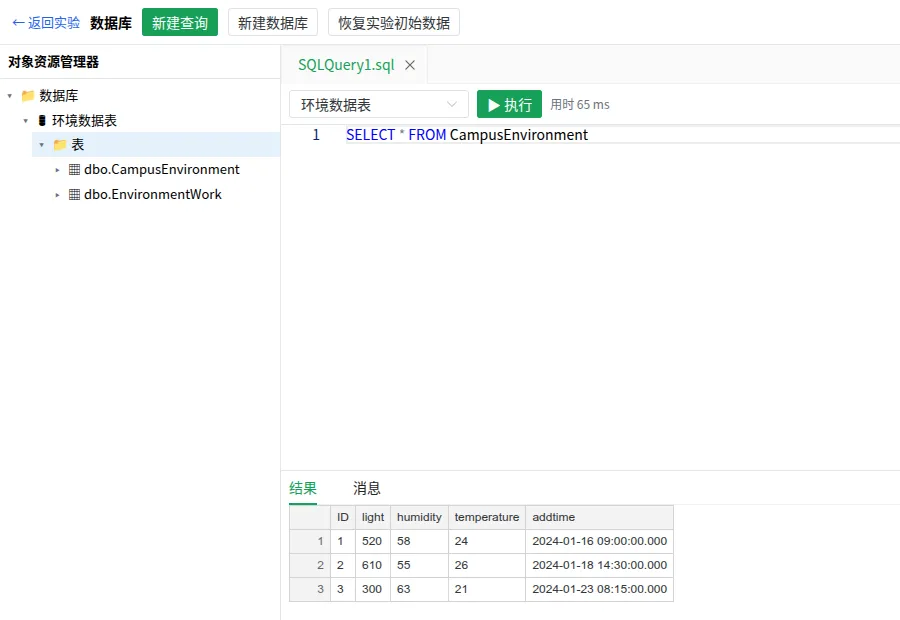
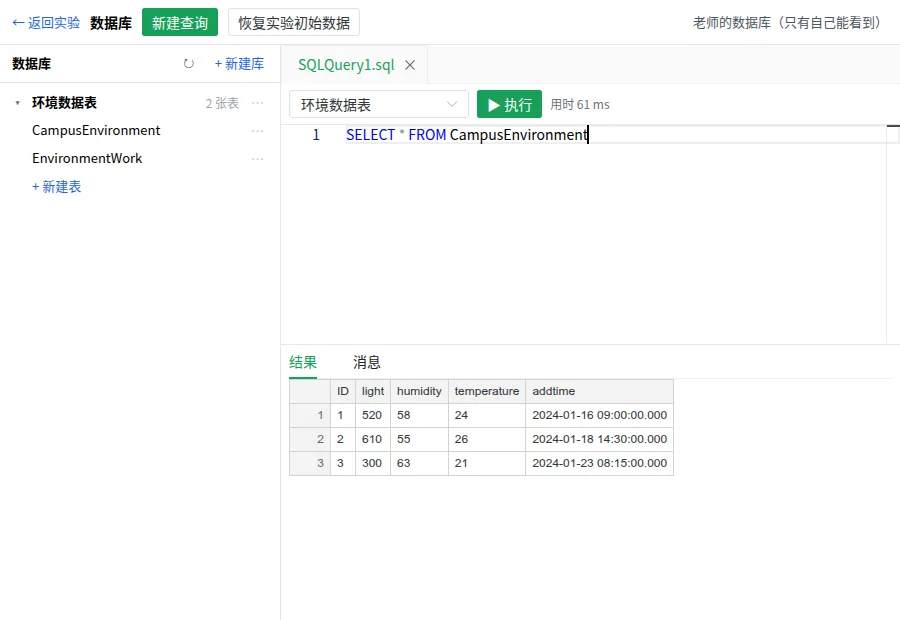
数据库页面的对象资源管理器简化成“库 → 表”两层：去掉“数据库”“表”“列”三层文件夹和 emoji；头部“+ 新建库”和刷新，每个库下面“+ 新建表”；点表名打开编辑前 200 行（已经开着就切过去），库和表右边的 ⋯ 和右键是同一个菜单（新建表 / 新建查询 / 删除数据库；编辑数据 / 查询前 1000 行 / 设计表结构 / 删除表），⋯ 打开的菜单出在按钮下面；鼠标停在表名上显示列。顶部去掉重复的“新建数据库”按钮；使用说明、数据库截图和设计方案同步

diff --git a/web/src/database/ObjectExplorer.vue b/web/src/database/ObjectExplorer.vue
@@ -1,5 +1,5 @@
 <script setup lang="ts">
-// 对象资源管理器（仿 SSMS）：数据库 → 库 → 表 → 列。右键菜单里的操作交给页面处理。
+// 对象资源管理器：只有“库 → 表”两层。点表名打开编辑数据，其他操作在 ⋯ 里（右键也是同一个菜单，照书上右键操作也行）。
 import { NDropdown, type DropdownOption } from 'naive-ui'
 import { nextTick, reactive, ref } from 'vue'
 import type { ExplorerDatabase, ExplorerTable } from './sql'
@@ -18,22 +18,25 @@ export type ExplorerAction =
 defineProps<{ databases: ExplorerDatabase[] }>()
 const emit = defineEmits<{ action: [action: ExplorerAction] }>()
 
-/** 展开的节点：root、db:库名、tables:库名、table:库名/表名、columns:库名/表名 */
-const expanded = reactive(new Set<string>(['root']))
-const toggle = (key: string) => (expanded.has(key) ? expanded.delete(key) : expanded.add(key))
+/** 收起的库（默认都展开，学生的库不多） */
+const collapsed = reactive(new Set<string>())
+const toggle = (name: string) => (collapsed.has(name) ? collapsed.delete(name) : collapsed.add(name))
 
-// ---------- 右键菜单 ----------
+// ---------- 菜单（⋯ 按钮和右键共用） ----------
 const menu = ref<{ x: number; y: number; options: DropdownOption[]; actions: Map<string, ExplorerAction> } | null>(null)
 
-function openMenu(event: MouseEvent, items: [string, ExplorerAction][]) {
+function openMenu(event: MouseEvent, items: [string, ExplorerAction | null][]) {
   event.preventDefault()
+  event.stopPropagation()
+  // 右键：菜单出在鼠标处；点 ⋯（也可能是键盘按的，没有鼠标坐标）：出在按钮下面
+  const anchor = event.type === 'contextmenu' ? null : (event.currentTarget as HTMLElement).getBoundingClientRect()
   menu.value = null
   void nextTick(() => {
     menu.value = {
-      x: event.clientX,
-      y: event.clientY,
-      options: items.map(([label], i) => (label === '-' ? { type: 'divider', key: `d${i}` } : { label, key: String(i) })),
-      actions: new Map(items.map(([, action], i) => [String(i), action])),
+      x: anchor ? anchor.left : event.clientX,
+      y: anchor ? anchor.bottom : event.clientY,
+      options: items.map(([label, action], i) => (action ? { label, key: String(i) } : { type: 'divider', key: `d${i}` })),
+      actions: new Map(items.flatMap(([, action], i) => (action ? [[String(i), action] as const] : []))),
     }
   })
 }
@@ -44,107 +47,68 @@ function choose(key: string) {
   if (action) emit('action', action)
 }
 
-const REFRESH: ExplorerAction = { kind: 'refresh' }
-
-function rootMenu(event: MouseEvent) {
-  openMenu(event, [
-    ['新建数据库…', { kind: 'newDatabase' }],
-    ['-', REFRESH],
-    ['刷新', REFRESH],
-  ])
-}
-
 function databaseMenu(event: MouseEvent, database: string) {
   openMenu(event, [
+    ['新建表', { kind: 'newTable', database }],
     ['新建查询', { kind: 'newQuery', database }],
-    ['新建表…', { kind: 'newTable', database }],
-    ['-', REFRESH],
-    ['删除', { kind: 'dropDatabase', database }],
-    ['刷新', REFRESH],
-  ])
-}
-
-function tablesMenu(event: MouseEvent, database: string) {
-  openMenu(event, [
-    ['新建表…', { kind: 'newTable', database }],
-    ['-', REFRESH],
-    ['刷新', REFRESH],
+    ['-', null],
+    ['删除数据库', { kind: 'dropDatabase', database }],
   ])
 }
 
 function tableMenu(event: MouseEvent, database: string, table: ExplorerTable) {
   openMenu(event, [
-    ['新建表…', { kind: 'newTable', database }],
-    ['设计', { kind: 'design', database, table }],
-    ['选择前 1000 行', { kind: 'selectRows', database, table }],
-    ['编辑前 200 行', { kind: 'editRows', database, table }],
-    ['-', REFRESH],
-    ['删除', { kind: 'dropTable', database, table }],
-    ['刷新', REFRESH],
+    ['编辑数据（前 200 行）', { kind: 'editRows', database, table }],
+    ['查询数据（前 1000 行）', { kind: 'selectRows', database, table }],
+    ['设计表结构', { kind: 'design', database, table }],
+    ['-', null],
+    ['删除表', { kind: 'dropTable', database, table }],
   ])
 }
 
-function columnText(column: ExplorerTable['columns'][number]) {
-  const flags = [column.primaryKey ? 'PK' : '', column.type, column.nullable ? 'null' : 'not null'].filter(Boolean)
-  return `${column.name} (${flags.join(', ')})`
+/** 鼠标停在表名上显示的列：每列一行“列名  类型  主键 / 可空” */
+function columnsTip(table: ExplorerTable) {
+  const lines = table.columns.map((c) => [c.name, c.type, c.primaryKey ? '主键' : '', c.nullable ? '可空' : ''].filter(Boolean).join('  '))
+  return `点一下编辑数据\n\n${lines.join('\n')}`
 }
 </script>
 
 <template>
   <div class="explorer">
-    <div class="title">对象资源管理器</div>
-    <ul class="tree">
-      <li>
-        <div class="node" @click="toggle('root')" @contextmenu="rootMenu">
-          <span class="arrow">{{ expanded.has('root') ? '▾' : '▸' }}</span
-          >📁 数据库
+    <div class="head">
+      <span class="title">数据库</span>
+      <button class="head-btn" title="刷新" @click="emit('action', { kind: 'refresh' })">↻</button>
+      <button class="head-btn add" @click="emit('action', { kind: 'newDatabase' })">+ 新建库</button>
+    </div>
+
+    <div class="tree">
+      <p v-if="databases.length === 0" class="empty">还没有数据库。点上面的“+ 新建库”，或者在页面顶部“恢复实验初始数据”。</p>
+
+      <div v-for="db in databases" :key="db.name" class="db">
+        <div class="row db-row" @click="toggle(db.name)" @contextmenu="databaseMenu($event, db.name)">
+          <span class="arrow">{{ collapsed.has(db.name) ? '▸' : '▾' }}</span>
+          <span class="name">{{ db.name }}</span>
+          <span class="count">{{ db.tables.length }} 张表</span>
+          <button class="more" title="更多操作" @click="databaseMenu($event, db.name)">⋯</button>
         </div>
-        <ul v-if="expanded.has('root')">
-          <li v-if="databases.length === 0" class="empty">（还没有数据库：右键"数据库"新建，或在上方恢复实验初始数据）</li>
-          <li v-for="db in databases" :key="db.name">
-            <div class="node" @click="toggle(`db:${db.name}`)" @contextmenu="databaseMenu($event, db.name)">
-              <span class="arrow">{{ expanded.has(`db:${db.name}`) ? '▾' : '▸' }}</span
-              >🛢 {{ db.name }}
-            </div>
-            <ul v-if="expanded.has(`db:${db.name}`)">
-              <li>
-                <div class="node" @click="toggle(`tables:${db.name}`)" @contextmenu="tablesMenu($event, db.name)">
-                  <span class="arrow">{{ expanded.has(`tables:${db.name}`) ? '▾' : '▸' }}</span
-                  >📁 表
-                </div>
-                <ul v-if="expanded.has(`tables:${db.name}`)">
-                  <li v-if="db.tables.length === 0" class="empty">（没有表）</li>
-                  <li v-for="table in db.tables" :key="table.name">
-                    <div
-                      class="node"
-                      title="右键：编辑前 200 行、设计、删除"
-                      @click="toggle(`table:${db.name}/${table.name}`)"
-                      @contextmenu="tableMenu($event, db.name, table)"
-                    >
-                      <span class="arrow">{{ expanded.has(`table:${db.name}/${table.name}`) ? '▾' : '▸' }}</span
-                      >▦ dbo.{{ table.name }}
-                    </div>
-                    <ul v-if="expanded.has(`table:${db.name}/${table.name}`)">
-                      <li>
-                        <div class="node" @click="toggle(`columns:${db.name}/${table.name}`)">
-                          <span class="arrow">{{ expanded.has(`columns:${db.name}/${table.name}`) ? '▾' : '▸' }}</span
-                          >📁 列
-                        </div>
-                        <ul v-if="expanded.has(`columns:${db.name}/${table.name}`)">
-                          <li v-for="column in table.columns" :key="column.name" class="node leaf">
-                            {{ column.primaryKey ? '🔑' : '▫' }} {{ columnText(column) }}
-                          </li>
-                        </ul>
-                      </li>
-                    </ul>
-                  </li>
-                </ul>
-              </li>
-            </ul>
-          </li>
-        </ul>
-      </li>
-    </ul>
+
+        <template v-if="!collapsed.has(db.name)">
+          <div
+            v-for="table in db.tables"
+            :key="table.name"
+            class="row table-row"
+            :title="columnsTip(table)"
+            @click="emit('action', { kind: 'editRows', database: db.name, table })"
+            @contextmenu="tableMenu($event, db.name, table)"
+          >
+            <span class="name">{{ table.name }}</span>
+            <button class="more" title="更多操作" @click="tableMenu($event, db.name, table)">⋯</button>
+          </div>
+          <div class="row new-table" @click="emit('action', { kind: 'newTable', database: db.name })">+ 新建表</div>
+        </template>
+      </div>
+    </div>
+
     <NDropdown
       v-if="menu"
       show
@@ -169,54 +133,116 @@ function columnText(column: ExplorerTable['columns'][number]) {
   background: #fff;
 }
 
-.title {
-  padding: 6px 8px;
-  font-weight: 600;
+.head {
+  display: flex;
+  align-items: center;
+  gap: 4px;
+  padding: 6px 8px 6px 12px;
   border-bottom: 1px solid #e5e7eb;
 }
 
-.tree,
-.tree ul {
-  list-style: none;
-  margin: 0;
-  padding: 0;
+.title {
+  flex: 1;
+  font-weight: 600;
+}
+
+.head-btn {
+  padding: 2px 8px;
+  border: 0;
+  border-radius: 4px;
+  background: transparent;
+  color: #4b5563;
+  font: inherit;
+  cursor: pointer;
+}
+
+.head-btn:hover {
+  background: #f3f4f6;
+}
+
+.head-btn.add {
+  color: #2563eb;
 }
 
 .tree {
   flex: 1;
   overflow: auto;
-  padding: 4px 0;
+  padding: 6px;
 }
 
-.tree ul {
-  padding-left: 16px;
+.db + .db {
+  margin-top: 4px;
 }
 
-.node {
-  padding: 2px 6px;
-  white-space: nowrap;
-  cursor: default;
+.row {
+  display: flex;
+  align-items: center;
+  gap: 6px;
+  min-height: 28px;
+  padding: 0 4px 0 8px;
+  border-radius: 4px;
+  cursor: pointer;
   user-select: none;
 }
 
-.node:hover {
-  background: #e5f1fb;
-}
-
-.leaf {
-  padding-left: 20px;
-  color: #374151;
+.row:hover {
+  background: #eff6ff;
 }
 
 .arrow {
-  display: inline-block;
-  width: 14px;
+  width: 12px;
   color: #6b7280;
 }
 
-.empty {
-  padding: 2px 6px 2px 22px;
+.name {
+  flex: 1;
+  min-width: 0;
+  white-space: nowrap;
+  overflow: hidden;
+  text-overflow: ellipsis;
+}
+
+.db-row .name {
+  font-weight: 600;
+}
+
+.count {
+  font-size: 12px;
   color: #9ca3af;
-  white-space: normal;
+}
+
+.table-row,
+.new-table {
+  padding-left: 26px;
+}
+
+.new-table {
+  color: #2563eb;
+}
+
+/* ⋯ 平时浅一点，鼠标移到这一行再变深 */
+.more {
+  padding: 0 6px;
+  border: 0;
+  border-radius: 4px;
+  background: transparent;
+  color: #c0c4cc;
+  font: inherit;
+  line-height: 22px;
+  cursor: pointer;
+}
+
+.row:hover .more {
+  color: #4b5563;
+}
+
+.more:hover {
+  background: #dbeafe;
+}
+
+.empty {
+  margin: 8px 6px;
+  color: #9ca3af;
+  line-height: 1.6;
 }
 </style>

diff --git a/web/src/pages/DatabasePage.vue b/web/src/pages/DatabasePage.vue
@@ -76,9 +76,16 @@ async function onAction(action: ExplorerAction) {
     case 'design':
       open({ kind: 'design', title: `${action.database} - dbo.${action.table.name}`, database: action.database, table: action.table })
       break
-    case 'editRows':
+    case 'editRows': {
+      // 点表名打开编辑数据；这张表已经开着就切过去
+      const opened = tabs.value.find((t) => t.kind === 'edit' && t.database === action.database && t.table.name === action.table.name)
+      if (opened) {
+        active.value = opened.key
+        break
+      }
       open({ kind: 'edit', title: `${action.database} - dbo.${action.table.name}`, database: action.database, table: action.table })
       break
+    }
     case 'selectRows': {
       // 和 SSMS 生成的语句格式一样
       const columns = action.table.columns.map((c) => quoteName(c.name)).join('\n      ,')
@@ -177,7 +184,6 @@ onMounted(refresh)
       <RouterLink to="/" class="nav-link">← 返回实验</RouterLink>
       <strong>数据库</strong>
       <NButton size="small" type="primary" @click="newQuery()">新建查询</NButton>
-      <NButton size="small" @click="creatingDatabase = ''">新建数据库</NButton>
       <NButton size="small" @click="openRestore">恢复实验初始数据</NButton>
       <span class="spacer" />
       <span class="user">{{ currentUser?.name }}的数据库（只有自己能看到）</span>
@@ -200,7 +206,7 @@ onMounted(refresh)
           </NTabPane>
         </NTabs>
         <div v-else class="empty">
-          <p>右键左边的"数据库"新建数据库；右键表可以编辑数据、设计表结构。</p>
+          <p>左边是你的数据库：点“+ 新建库”“+ 新建表”建库建表，点表名编辑表里的数据，表右边的 ⋯ 里还能查询、设计表结构、删除。</p>
           <p>也可以点"新建查询"，用 SQL 语句建库、建表、增删改查。</p>
           <p>运行要用数据库的实验（教材项目 6 的任务 2、3，项目 8）时，平台会自动建好需要的库；把实验库恢复成初始数据，点"恢复实验初始数据"。</p>
         </div>

diff --git a/web/src/pages/HelpPage.vue b/web/src/pages/HelpPage.vue
@@ -141,14 +141,14 @@ onBeforeUnmount(() => window.removeEventListener('keydown', onKey))
 
         <h3>7. 数据库（项目 6、8）</h3>
         <ul>
-          <li>点右上角的<b>数据库</b>（在新标签页打开），代替书上的 SSMS：右键新建数据库、新建表，<b>新建查询</b>写 SQL（输入时会提示关键字、表名和列名，写"表名."或"别名."列出这张表的列），按 F5 执行。</li>
+          <li>点右上角的<b>数据库</b>（在新标签页打开），代替书上的 SSMS：左边点“+ 新建库”“+ 新建表”，点表名编辑表里的数据，表右边的 ⋯（或右键）里能查询、设计表结构、删除；<b>新建查询</b>写 SQL（输入时会提示关键字、表名和列名，写"表名."或"别名."列出这张表的列），按 F5 执行。</li>
           <li>每个人有自己的一套数据库，只有自己能看到，一直保留。程序里的连接字符串只看数据库名，服务器名、账号密码照书上写就行。</li>
           <li>数据弄乱了：点<b>恢复实验初始数据</b>，选实验（默认是刚才做的实验），把这个实验用到的库换回初始数据（其他库不动）。</li>
           <li>点<b>← 返回实验</b>回到刚才做的实验。</li>
         </ul>
         <figure class="shot">
           <a href="/help-img/db.webp" title="点击放大" @click.prevent="zoom"><img src="/help-img/db.webp" alt="" loading="lazy" /></a>
-          <figcaption>数据库页面：左边是对象资源管理器，右边写 SQL、按 F5 执行，下面是结果</figcaption>
+          <figcaption>数据库页面：左边是你的库和表（点表名编辑数据），右边写 SQL、按 F5 执行，下面是结果</figcaption>
         </figure>
       </section>
 

diff --git a/docs/设计方案.md b/docs/设计方案.md
@@ -289,7 +289,7 @@ flowchart TB
   - **SqlClient 仿冒**（`runtime/Sim.Data`）：SqlConnection / SqlCommand / SqlDataReader / SqlDataAdapter / SqlCommandBuilder / SqlParameter，DataSet、DataTable、DataView 直接用 .NET 自带的。连接字符串只按 Initial Catalog 打开学生自己的同名库（服务器名、账号密码不检查，书上的长服务器名、"." 都能连上），库不存在时报 4060。
   - **T-SQL 转写**：ScriptDom（SQL Server 2008 语法）解析后按白名单逐个节点转写成 SQLite 语句，不认识的语法报"平台暂不支持"，生成的 SQL 里只有平台写出的关键字和 tsql_ 函数。表用 STRICT 模式保存，原始的 T-SQL 列类型记在元数据表里，读出时还原成 SQL Server 返回的 .NET 类型（int、DateTime、bool……）；varchar(n) 超长、类型不对、NULL、重复主键都报和 SQL Server 一样的错误号和中文信息。`insert into 表 values (...)` 不写列名时跳过自增列（照书上写时值的顺序和列顺序不一致，数据会存进错的列，和真实情况一样）；日期统一存成 yyyy-MM-dd HH:mm:ss，书上拼接的 `DateTime.Now.ToString()`（2024/1/16 9:05:03）在插入和 BETWEEN 比较时都转换；支持 TOP（含 UPDATE / DELETE TOP）、CONVERT 样式 120 等、year / getdate / dateadd / datediff、`+` 按类型连接或相加、参数化查询、@@IDENTITY、多条语句。SqlCommandBuilder 根据带中文别名的查询生成 UPDATE。
   - **DataGridView**：绑定 DataView / DataTable / DataSet，自动生成列；在单元格里修改的值写回 DataTable，配合 SqlDataAdapter.Update 保存；当前行 ▶、新增行 *、选中行、CurrentRow.Cells[0].Value；类型转换失败时和 WinForms 一样触发 DataError。**DateTimePicker**：Long / Short / Time / Custom 格式与中文 Windows 一致，弹出浏览器的日期选择框。设计器工具箱加"数据表格""日期时间选择器"。
-  - **数据库页面**（代替 SSMS，`/database`）：对象资源管理器（库 → 表 → 列，右键新建数据库、新建表、设计、选择前 1000 行、编辑前 200 行、删除）；查询窗口（F5 执行、选中部分只执行选中的、USE 切换库，结果网格和消息栏的格式与 SSMS 一致，每批最多 5 秒）；编辑前 200 行（改单元格即 UPDATE、* 行新增、右键删除，没有主键的表按所有列的原值定位）；表设计器（列名、类型、允许 Null、右键设主键、标识列，"查看 SQL 脚本"显示对应的 CREATE TABLE）；"恢复实验初始数据"按实验的 `database.sql` 替换实验用到的库，其他库不动。这些操作都生成 T-SQL 交给常驻的 SQL 服务执行，和学生程序走同一套转写。
+  - **数据库页面**（代替 SSMS，`/database`）：对象资源管理器（只有库 → 表两层，比 SSMS 简单：“+ 新建库”“+ 新建表”，点表名编辑前 200 行，⋯ 和右键是同一个菜单：查询前 1000 行、设计表结构、删除；鼠标停在表名上显示列）；查询窗口（F5 执行、选中部分只执行选中的、USE 切换库，结果网格和消息栏的格式与 SSMS 一致，每批最多 5 秒）；编辑前 200 行（改单元格即 UPDATE、* 行新增、右键删除，没有主键的表按所有列的原值定位）；表设计器（列名、类型、允许 Null、右键设主键、标识列，"查看 SQL 脚本"显示对应的 CREATE TABLE）；"恢复实验初始数据"按实验的 `database.sql` 替换实验用到的库，其他库不动。这些操作都生成 T-SQL 交给常驻的 SQL 服务执行，和学生程序走同一套转写。
   - **评分**：每个实验可以带 `database.sql`，评分时每个检查项用一份新建的实验库，不碰学生自己的数据；评分规则加"点 / 修改表格单元格""在日期时间选择器里选日期""表格里有 / 没有某行"。新增示例项目 6 任务 2、3（任务 1 在数据库页面上完成），共 15 个。
   - 实测：用到数据库的学生程序比不用的多约 11 MB 内存（PSS 17 → 28 MB）。另外修正了平台上的时间格式：Linux 的中文区域数据是 09:05:03，改成和中文 Windows 一样的 9:05:03。
 
